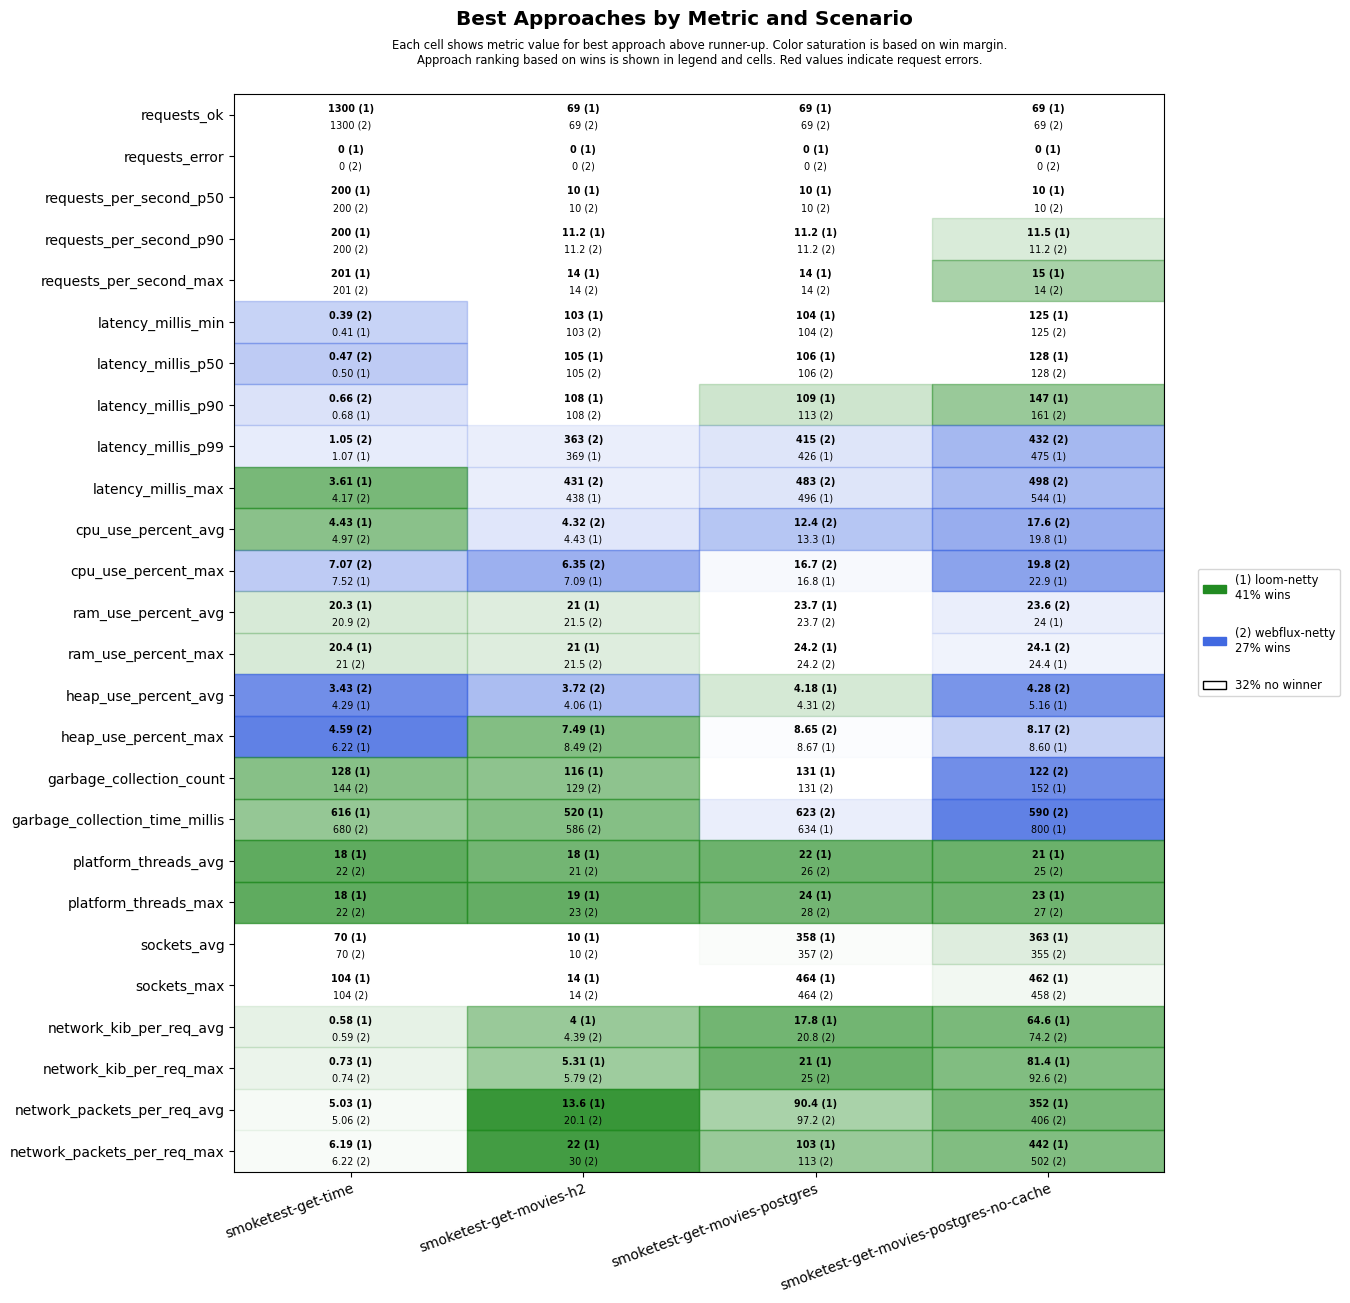
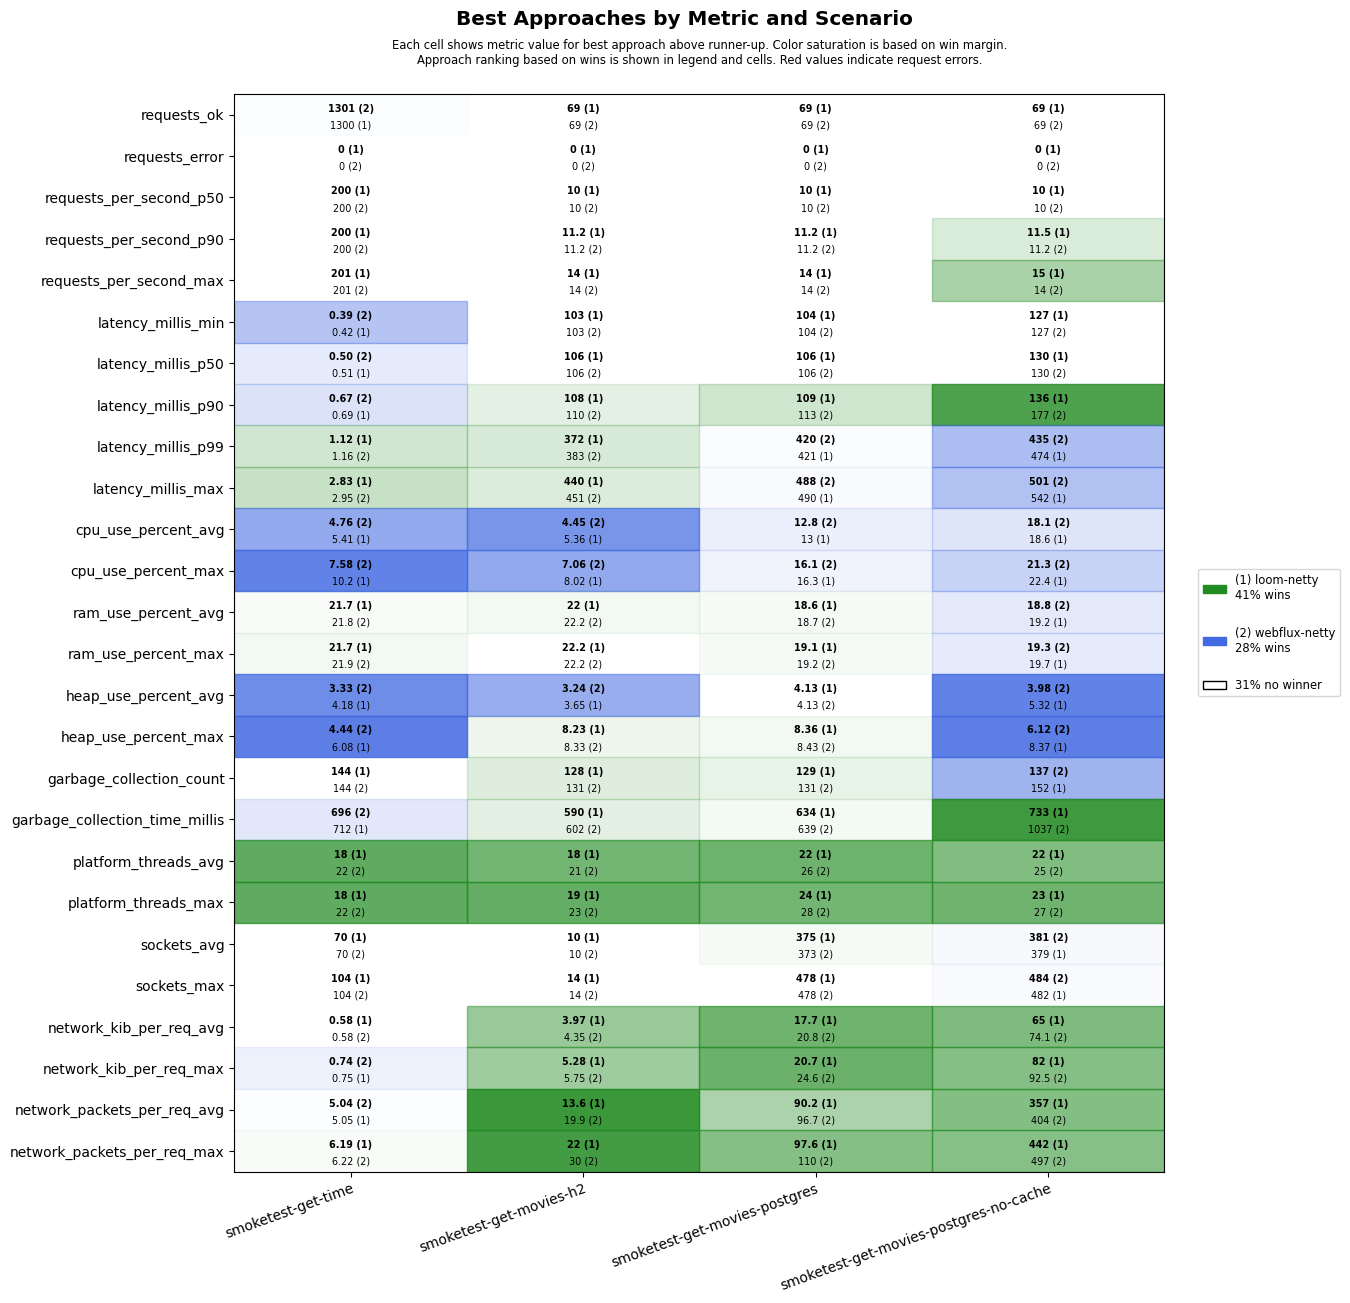
Apply automatic changes

diff --git a/results/ci/scenarios-smoketest/Ubuntu-22.04/java-21/results.md b/results/ci/scenarios-smoketest/Ubuntu-22.04/java-21/results.md
@@ -4,22 +4,22 @@
 
 | **Name**                | **Value** |
 |-------------------------|-----------|
-| **Start (UTC)** | 2025-02-13 17:51:09 |
-| **End (UTC)** | 2025-02-13 17:56:36 |
-| **Duration (hh:mm:ss)** | 00:05:27 |
+| **Start (UTC)** | 2025-03-06 18:36:35 |
+| **End (UTC)** | 2025-03-06 18:42:12 |
+| **Duration (hh:mm:ss)** | 00:05:37 |
 
 ## System Specs
 
 | **Name**                | **Value** |
 |-------------------------|-----------|
 | **Java** | OpenJDK 64-Bit Server VM Corretto-21.0.6.7.1 (build 21.0.6+7-LTS, mixed mode, sharing) |
-| **Spring Boot** | 3.4.2 |
+| **Spring Boot** | 3.4.3 |
 | **Python** | 3.10.12 |
 | **OS** | Ubuntu 22.04.5 LTS |
-| **Kernel** | 6.5.0-1025-azure |
+| **Kernel** | 6.8.0-1021-azure |
 | **CPU** | AMD EPYC 7763 64-Core Processor |
 | **CPU Cores** | 4 |
-| **RAM** | 15Gi total, 12Gi available |
+| **RAM** | 15Gi total, 13Gi available |
 | **Disk** | 159G total, 96G available |
 
 ## Scenarios
